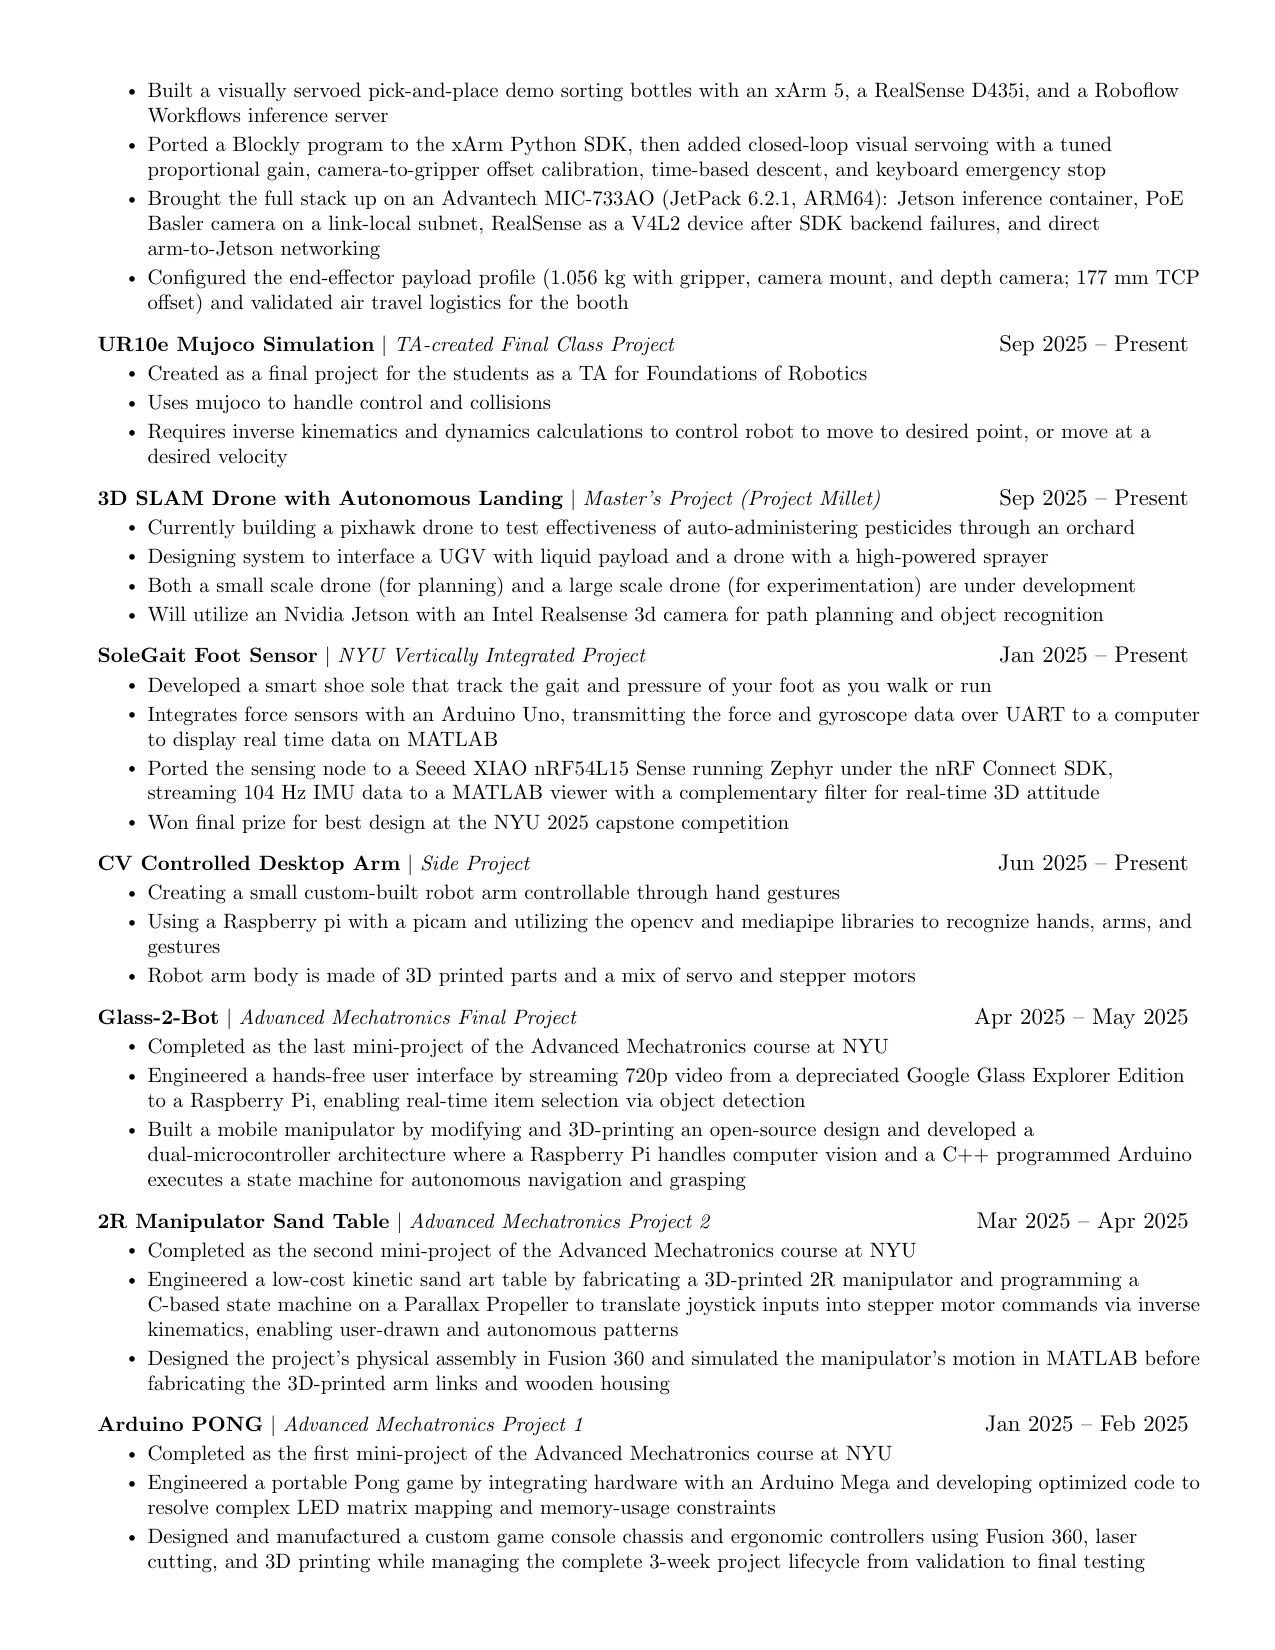
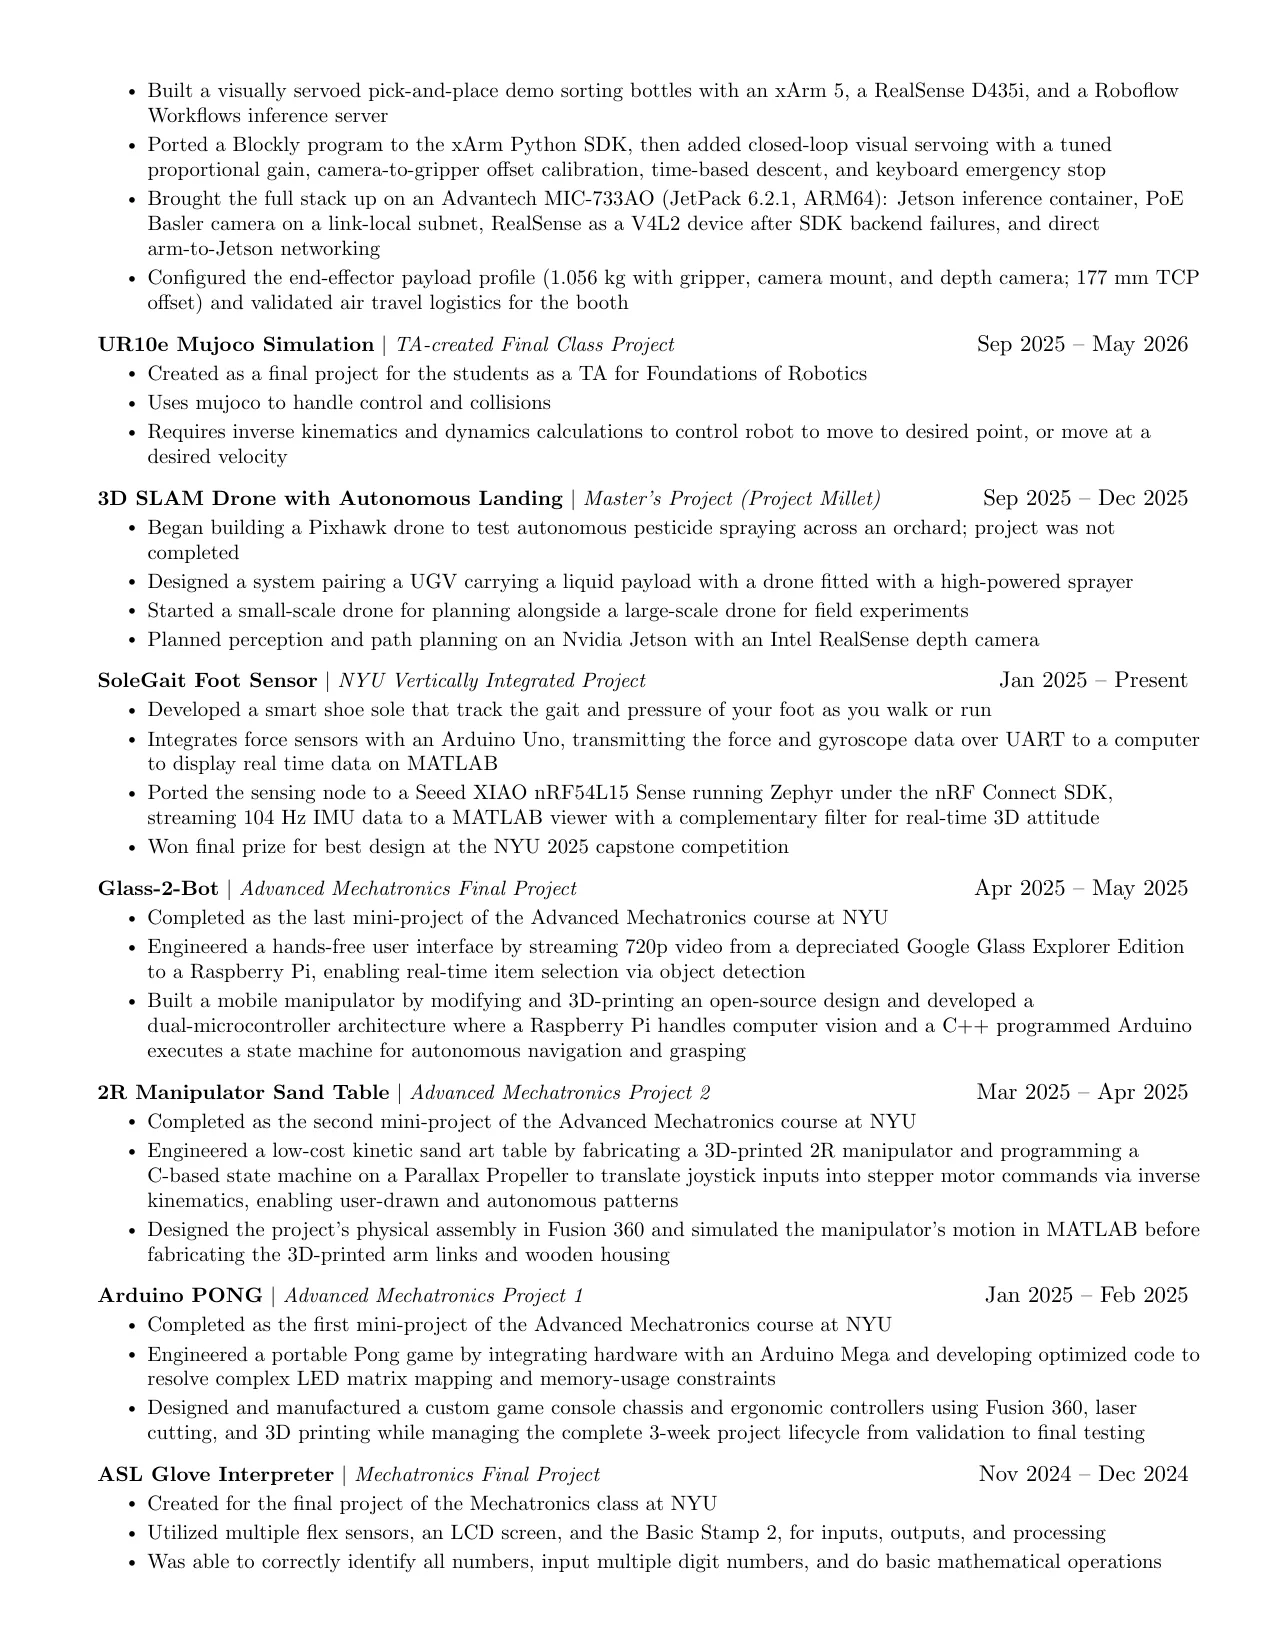
Extended CV replaced with the owner's new version; Millet and UR10e follow it
Millet ran Sep-Dec 2025 and was not completed; the UR10e project ended
May 2026. Page previews regenerated.

Claude-Session: https://claude.ai/code/session_01Y7j2gaE5ohG1smBg9ttd1C

Changed region(s): [[0.0918, 0.2782, 0.9482, 0.9582], [0.7647, 0.1855, 0.9176, 0.2164]]

diff --git a/src/data/siteData.js b/src/data/siteData.js
@@ -157,7 +157,7 @@ export const majorProjectsData = [
   { id: 'rl', title: 'Reinforcement Learning: Go2 Locomotion', cardDescription: 'A quadruped learning to walk: a PPO locomotion policy for the Unitree Go2 in Isaac Lab, shaped into a real gait with a hand-written PD torque controller, early termination, Raibert-heuristic foot placement, clearance and contact rewards, and randomised joint friction. NYU Reinforcement Learning and Optimal Control, with Nate Smurthwaite and Dana Sy-Ching.', imageUrl: baseProjectImagePath + 'rlgo2.mp4', tags: ['Isaac Lab', 'PPO', 'Unitree Go2', 'Reward Shaping'], gallery: gal('l_reinforcementlearning', ['2.mp4', '3.mp4', '4.mp4', '5.mp4', '6.webp']), status: 'Completed', modalContent: [{ type: 'text', value: "The final project of NYU's Reinforcement Learning and Optimal Control (ROB-GY 6323), built with Nate Smurthwaite and Dana Sy-Ching: a velocity-tracking locomotion policy for the Unitree Go2 quadruped, trained with PPO (rsl_rl) in Isaac Lab on NYU's HPC cluster." }, { type: 'text', value: "The base task rewards only velocity and yaw tracking, so the robot learned jerky micro-steps. Shaping it into a walk: a penalty on action rate; a hand-written PD controller with torque limits in place of the simulator's; early termination when the base drops too low, so failed episodes stop costing samples; the Raibert heuristic for a structured trot; penalties on body tilt, vertical bounce and joint velocity; foot-clearance and contact-force rewards; and stiction and viscous joint friction randomised per episode, for a policy that holds up off the simulator." }, { type: 'text', value: 'The course work behind it: trajectory optimisation (SQP) and model predictive control for a quadrotor, optimal control of a planar manipulator and a pendulum, and value iteration on a grid world.' }, { type: 'button', text: 'Go2 project on GitHub', link: 'https://github.com/AadhavSivakumar/rob6323_go2_project' }] },   // the course-work repo is PRIVATE (a 404 for visitors), so it is not linked
   { id: 4, title: 'SMART Compost Sorting', cardDescription: "A senior-capstone prototype for pulling contaminants out of UC Santa Cruz's compost stream: an Orbbec Astra RGB-D camera over a conveyor, DexNet grasp planning and a Franka Research 3 arm. I built the arm side, including the camera-to-robot calibration that turns a picked pixel and its depth into a reachable pose. About 80% of grasps succeeded on the conveyor.", imageUrl: baseProjectImagePath + 'smartsort.mp4', tags: ['Franka Research 3', 'DexNet', 'Orbbec Astra', 'OpenCV'], gallery: gal('d_SMARTcompost', ['1.mp4', '2.mp4', '3.mp4', '4.mp4', '5.mp4', '6.mp4', '7.mp4', '8.mp4']), status: 'Completed', modalContent: [{ type: 'text', value: "A prototype for UC Santa Cruz's waste-management team, whose green bins carry so much contamination that compostable material ends up in landfill. A conveyor carries material under an Orbbec Astra RGB-D camera. The operator clicks an item, background subtraction and a depth mask isolate it, UC Berkeley's DexNet plans the grasp, and a Franka Research 3 arm picks it off the belt." }, { type: 'text', value: "My part was the arm. I chose Cartesian motion over joint moves so the gripper could never be routed through the table, and mapped camera space to robot space by fitting each robot coordinate as a polynomial in the camera's x, y and depth, calibrated on eight reference points. Grasp success was a little over 80% across the conveyor test runs. Automatic compost-versus-contaminant classification was left for a future team. A three-person senior capstone." }, { type: 'button', text: 'Capstone report (PDF)', link: baseProjectPdfPath + 'Capstone_final_report.pdf' }] },
   { id: 6, title: 'Stockbot: Grocery Robotics', cardDescription: 'A grocery-restocking pick-and-place workcell on a 7-DOF Franka Panda: PID control on every joint, multi-item picking, and telemetry that benchmarks cycle time and task success against human trials. The final project for Models of Robotic Manipulation at UCSC.', imageUrl: baseProjectImagePath + 'stockbot.mp4', tags: ['Franka Panda', 'PID Control', 'Python', 'MuJoCo'], status: 'Completed', modalContent: [{ type: 'text', value: 'A multi-item pick-and-place testing environment for grocery restocking, built on a 7-degree-of-freedom Franka Panda with a PID-based feedback controller in each joint.' }, { type: 'text', value: 'The cell logs every cycle time and whether each pick succeeded, so a run can be compared directly against human trials of the same restocking task. The final project for ECE 215, Models of Robotic Manipulation, at UC Santa Cruz.' }] },
-  { id: 'h', title: 'UR10e Kinematics in MuJoCo', cardDescription: "Forward and inverse kinematics — position and velocity — for a 6-DOF Universal Robots UR10e arm, simulated in MuJoCo with Python, then put to work as a 3D 'Fruit Ninja' in which the end effector strikes fruit. Created as the final project for Foundations of Robotics students while I was the course's TA at NYU.", imageUrl: baseProjectImagePath + 'fruitninja.mp4', tags: ['Python', 'MuJoCo', 'Kinematics', 'UR10e'], gallery: gal('h_ur10emujocosim', ['1.mp4', '2.mp4', '3.mp4', '4.mp4', '5.mp4']), status: 'In Progress', modalContent: [{ type: 'text', value: "Built a MuJoCo simulation of a 6-DOF Universal Robots UR10e arm in Python, implementing forward and inverse kinematics for both position and velocity. The same model then drives a 3D 'Fruit Ninja': fruit is spawned in the arm's workspace and the end effector is steered to strike it. MuJoCo handles control and collisions. I created it as the final project for Foundations of Robotics students while TA'ing the course at NYU." }, { type: 'button', text: 'View on GitHub', link: 'https://github.com/AadhavSivakumar/MujocoSim' }] },
+  { id: 'h', title: 'UR10e Kinematics in MuJoCo', cardDescription: "Forward and inverse kinematics — position and velocity — for a 6-DOF Universal Robots UR10e arm, simulated in MuJoCo with Python, then put to work as a 3D 'Fruit Ninja' in which the end effector strikes fruit. Created as the final project for Foundations of Robotics students while I was the course's TA at NYU.", imageUrl: baseProjectImagePath + 'fruitninja.mp4', tags: ['Python', 'MuJoCo', 'Kinematics', 'UR10e'], gallery: gal('h_ur10emujocosim', ['1.mp4', '2.mp4', '3.mp4', '4.mp4', '5.mp4']), status: 'Completed', modalContent: [{ type: 'text', value: "Built a MuJoCo simulation of a 6-DOF Universal Robots UR10e arm in Python, implementing forward and inverse kinematics for both position and velocity. The same model then drives a 3D 'Fruit Ninja': fruit is spawned in the arm's workspace and the end effector is steered to strike it. MuJoCo handles control and collisions. I created it as the final project for Foundations of Robotics students while TA'ing the course at NYU." }, { type: 'button', text: 'View on GitHub', link: 'https://github.com/AadhavSivakumar/MujocoSim' }] },
 ];
 
 export const smallProjectsData = [
@@ -176,7 +176,7 @@ export const smallProjectsData = [
     { type: 'button', text: 'Watch on YouTube', link: 'https://www.youtube.com/watch?v=MZzjyfUTV4E&t=96s' },
   ] },
   { id: 3, title: 'Glass-2-Bot', cardDescription: 'Hands-free robot control from a Google Glass: 720p video streams from a Glass Explorer Edition to a Raspberry Pi, where object detection lets the wearer choose an item in real time, and a 3D-printed mobile manipulator drives to it and grasps it. The Advanced Mechatronics final project at NYU.', imageUrl: baseProjectImagePath + 'glass2bot.mp4', tags: ['Google Glass', 'OpenCV', 'Raspberry Pi', 'Arduino Mega'], gallery: gal('c_glass2bot', ['1.mp4', '2.mp4', '3.mp4']), status: 'Completed', modalContent: [{ type: 'text', value: 'A hands-free interface for a mobile manipulator, for people who can see a dropped object but cannot reach it. A (deprecated) Google Glass Explorer Edition streams 720p video over Wi-Fi to a Raspberry Pi, which finds coloured objects with OpenCV (HSV thresholding); holding an object at the centre of your view for a moment selects it.' }, { type: 'text', value: 'The robot is a modified, 3D-printed open-source mobile manipulator with a dual-microcontroller architecture: the Raspberry Pi handles computer vision, and an Arduino programmed in C++ runs a state machine for autonomous navigation and grasping. The last project of the Advanced Mechatronics course at NYU.' }, { type: 'button', text: 'Final report (PDF)', link: baseProjectPdfPath + 'Adv__Mechatronics_Final_Report.pdf' }] },
-  { id: 1, title: 'Project Millet', cardDescription: 'A 3D-SLAM drone with autonomous landing for orchard spraying, paired with a ground vehicle carrying the liquid payload. Master\'s project, in progress.', imageUrl: baseProjectImagePath + 'Millet.mp4', tags: ['Pixhawk', 'NVIDIA Jetson', 'RealSense', 'SLAM'], gallery: gal('a_millet', ['1.mp4', '2.mp4', '3.mp4', '4.mp4']), status: 'In Progress', modalContent: [{ type: 'text', value: 'A Pixhawk drone to test auto-administering pesticides through an orchard, working with a ground vehicle (UGV) that carries the liquid payload and a drone with a high-powered sprayer.' }, { type: 'text', value: 'A small drone for planning and a large one for experiments are both in development. An NVIDIA Jetson with an Intel RealSense 3D camera handles 3D SLAM, path planning, object recognition and autonomous landing. My master\'s project at NYU.' }] },
+  { id: 1, title: 'Project Millet', cardDescription: 'A 3D-SLAM drone with autonomous landing for orchard spraying, paired with a ground vehicle carrying the liquid payload. Master\'s project, Sep–Dec 2025; not completed.', imageUrl: baseProjectImagePath + 'Millet.mp4', tags: ['Pixhawk', 'NVIDIA Jetson', 'RealSense', 'SLAM'], gallery: gal('a_millet', ['1.mp4', '2.mp4', '3.mp4', '4.mp4']), status: 'Not completed', modalContent: [{ type: 'text', value: 'Began building a Pixhawk drone to test autonomous pesticide spraying across an orchard, and designed a system pairing a ground vehicle (UGV) carrying the liquid payload with a drone fitted with a high-powered sprayer.' }, { type: 'text', value: 'Started a small drone for planning alongside a large one for field experiments, with perception and path planning planned on an NVIDIA Jetson with an Intel RealSense depth camera. My master\'s project at NYU, Sep–Dec 2025; the project was not completed.' }] },
   { id: 2, title: 'SoleGait Foot Sensor', cardDescription: 'A smart shoe sole that tracks the gait and pressure of your foot as you walk or run. Won the Best Technical Design Award at NYU Tandon\'s 2025 Capstone Pitch Contest.', imageUrl: baseProjectImagePath + 'solegaitvidmute.mp4', tags: ['nRF54L15', 'Zephyr', 'IMU', 'MATLAB'], status: 'Completed', modalContent: [{ type: 'text', value: 'A smart shoe sole that tracks gait and foot pressure while walking or running. Force sensors feed an Arduino Uno, which streams force and gyroscope data over UART to a computer for a real-time MATLAB display.' }, { type: 'text', value: 'The sensing node was then ported to a Seeed XIAO nRF54L15 Sense running Zephyr under the nRF Connect SDK, streaming 104 Hz IMU data to a MATLAB viewer with a complementary filter for real-time 3D attitude. It won the Best Technical Design Award at NYU Tandon\'s 2025 Capstone Pitch Contest.' }, { type: 'button', text: 'Design paper (PDF)', link: baseProjectPdfPath + 'Biomedical_devices_research_paper.pdf' }, { type: 'button', text: 'View on GitHub', link: 'https://github.com/AadhavSivakumar/SoleGait' }] },
   { id: 'rp', title: 'Robot Perception', imageUrl: baseProjectImagePath + 'robotperception.mp4', tags: ['OpenCV', 'Open3D', 'YOLO'], gallery: gal('m_robotperception', ['2.webp', '3.mp4', '4.webp', '5.webp']), status: 'Completed', modalContent: [{ type: 'text', value: "NYU's Robot Perception (ROB-GY 6203): RANSAC plane fitting and ICP registration written from scratch on KITTI point clouds (Open3D), epipolar geometry and fundamental-matrix estimation from two photographs, multi-object tracking with YOLO detections and my own IoU association, marker-based pose estimation with a cube rendered onto the tag, visual place recognition over street-level images, and an autoencoder's latent space visualised with t-SNE." }, { type: 'text', value: "The final project maps a maze from a robot's own camera: edge detection finds the walls to its left, front and right, frame-to-frame motion tracks its heading and grid position, and the two together build an occupancy map of the maze." }, { type: 'button', text: 'View on GitHub', link: 'https://github.com/AadhavSivakumar/Robot-Perception' }] },
   // Cover: the SO-ARM101 as this site's robot animation draws it (TheRobotStudio's
